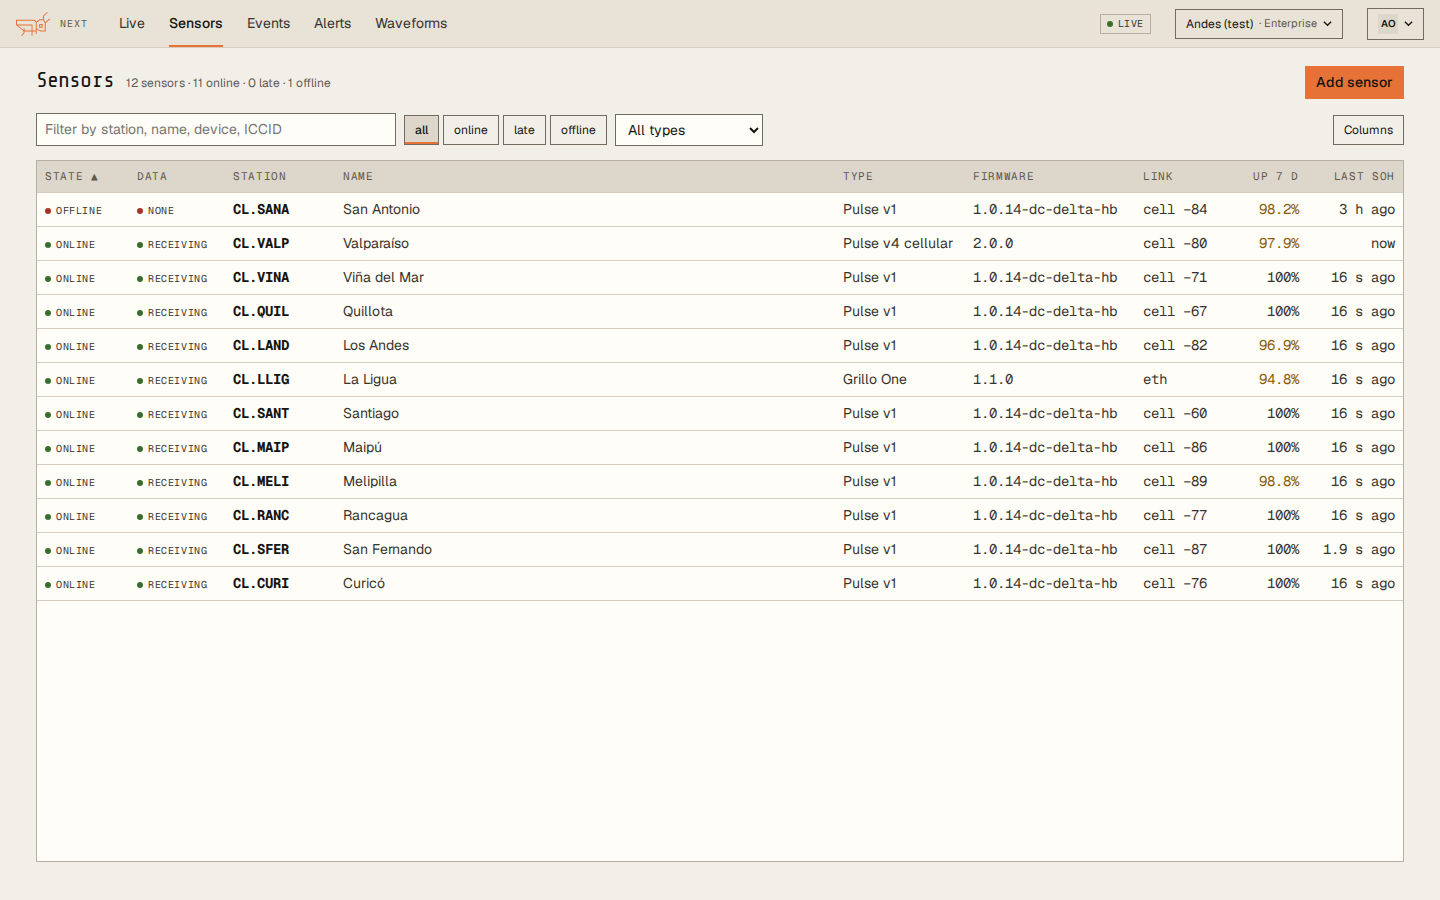
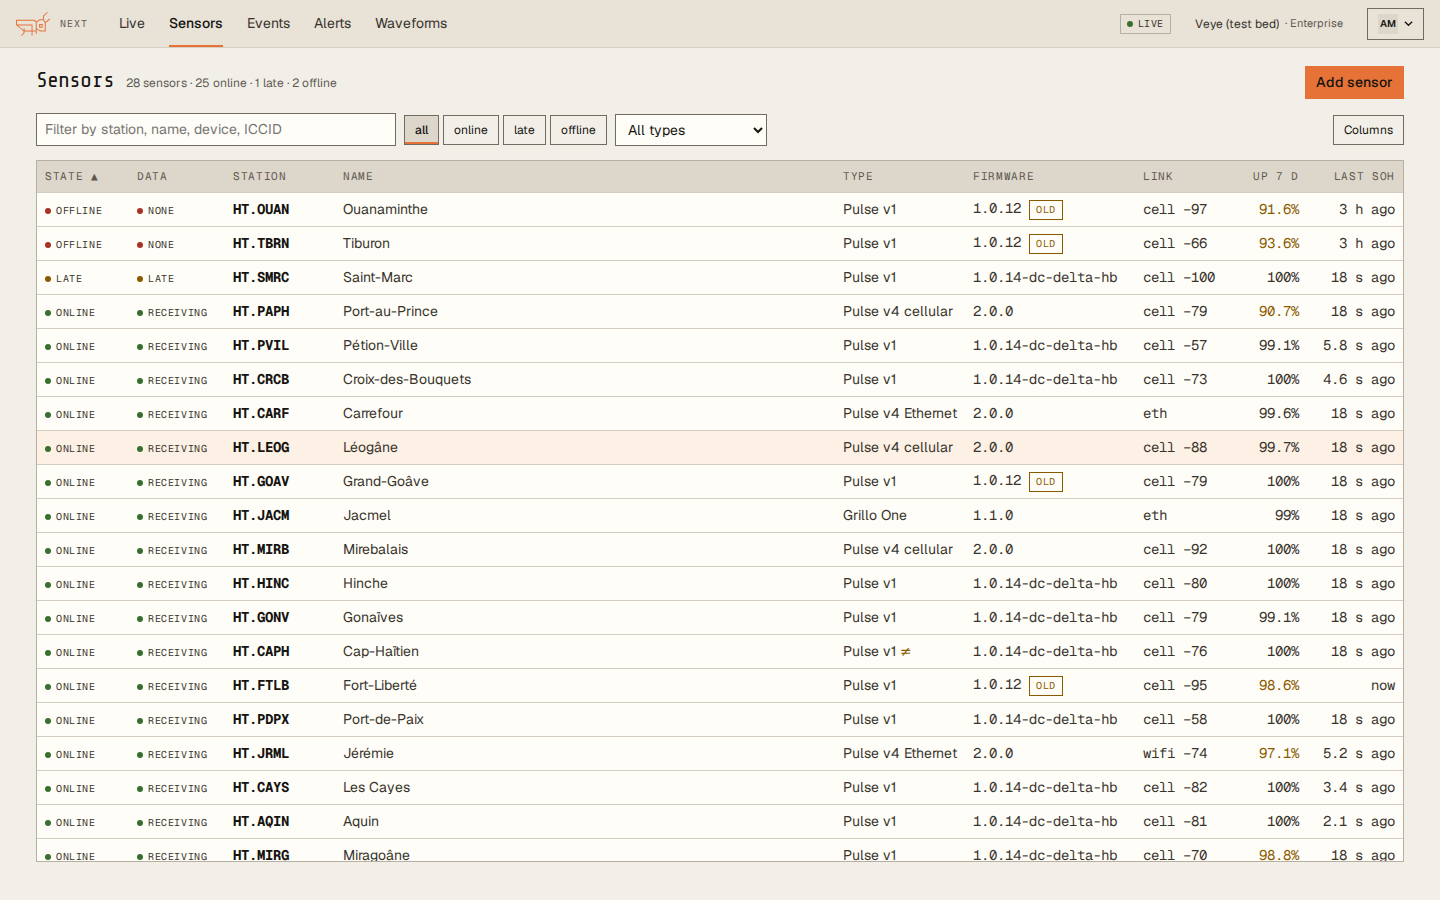
Screenshots from the Veye test project; a waveform window with an earthquake; the sensor page without the mock's live trace
The mock backend's live trace is synthetic noise that looks wrong, so the
sensor page shot starts at Connectivity, and the Waveforms shot shows a
window with an earthquake in it. A crop of a sensor's Settings goes on
Recording Mode and Thresholds.

diff --git a/docs/dashboard/sensors/sensor-details.md b/docs/dashboard/sensors/sensor-details.md
@@ -6,7 +6,7 @@ title: Sensor Details
 
 Select a sensor on the **Sensors** page to open its page. The top shows the station, its name, and its state, with chips for the hardware type, Device ID, firmware, and connection (with the mobile operator for cellular sensors). **Open in waveforms →** opens its recorded data on the [Waveforms](/dashboard/data/waveforms) page.
 
-![A sensor's page: chips for type, device, firmware, and link, the live waveform, and connectivity over 7 days](/img/screenshots/cloud/sensor-page.png)
+![A sensor's page: chips for type, device, firmware, and link; connectivity over 7 days with outages, restarts, signal, and the events log; then current connection, temperature, station, and hardware](/img/screenshots/cloud/sensor-page.png)
 
 The page has these sections, top to bottom.
 

diff --git a/docs/dashboard/data/waveforms.md b/docs/dashboard/data/waveforms.md
@@ -6,7 +6,7 @@ title: Waveforms
 
 Open **Waveforms** to look at the data your sensors recorded and download it. It is in the menu bar on the Seismic, Enterprise, and Structural [plans](/dashboard/plans), for the project's owners, admins, and members.
 
-![The Waveforms page with the station and channel picker, span buttons, end time, Download, and one channel's trace](/img/screenshots/cloud/waveforms.png)
+![The Waveforms page showing a one-minute window of a station's three channels as a small earthquake arrives, with the station and channel picker, span buttons, end time, and Download](/img/screenshots/cloud/waveforms.png)
 
 Projects that [send their data to their own server](/dashboard/data/data-server), such as those on the Network plan, have no waveforms in Grillo Cloud.
 

diff --git a/docs/events/live-map.md b/docs/events/live-map.md
@@ -6,7 +6,7 @@ title: Live Map
 
 **Live** is the first page you see after signing in. It shows your stations on a map, and earthquake detection as it happens: which stations pick up the waves, where the earthquake is, and how soon the shaking reaches nearby places. You can also [replay a past event](#replay-a-past-event) in the same view.
 
-![The Live map: stations as diamonds, one lit by a pick, with the status, current event, latency, and recent picks in the side panel](/img/screenshots/cloud/live-map.png)
+![The Live map: stations as diamonds, three lit by picks, with the status, current event, latency, and recent picks in the side panel](/img/screenshots/cloud/live-map.png)
 
 On a phone, the map comes first and the panels follow below it.
 

diff --git a/docs/dashboard/sensors/table-view.md b/docs/dashboard/sensors/table-view.md
@@ -6,7 +6,7 @@ title: Sensor Table
 
 The **Sensors** page shows every sensor in the project as a row. Problems come first: rows start sorted by state, with offline sensors at the top. On the Network plan they start sorted by station.
 
-![The Sensors table with each sensor's state, data, station, type, firmware, link, uptime, and last health report](/img/screenshots/cloud/sensors.png)
+![The Sensors table, offline and late sensors first, with each sensor's state, data, station, type, firmware, link, uptime, and last health report](/img/screenshots/cloud/sensors.png)
 
 ## Columns
 

diff --git a/docs/dashboard/sensors/recording-mode.md b/docs/dashboard/sensors/recording-mode.md
@@ -37,6 +37,8 @@ Open the sensor's page and find **Settings**. **This device** lists each setting
 
 **Last sent** below lists recent changes, who sent them, and why.
 
+![A sensor's Settings: each setting's desired value and where it comes from, beside what the sensor reports, with a trigger change pending and the last settings sent](/img/screenshots/cloud/sensor-settings.png)
+
 ## Change a sensor's settings
 
 The project owner can:
